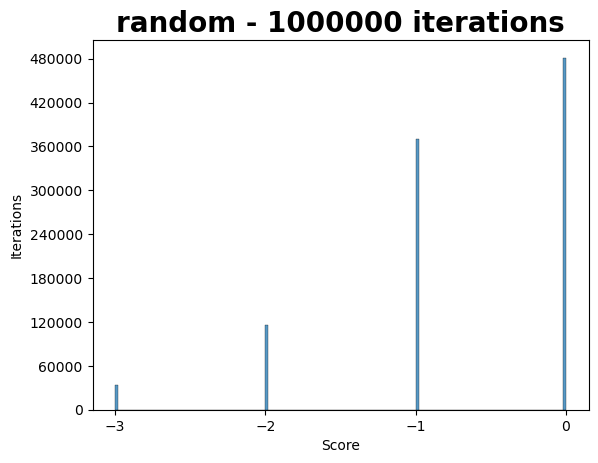
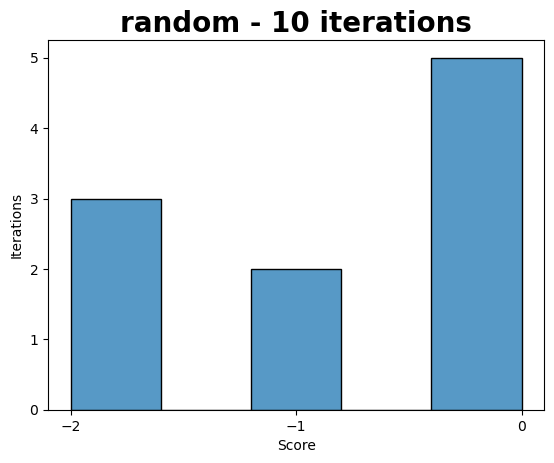
main change

diff --git a/main.py b/main.py
@@ -1,3 +1,4 @@
+#Import
 from code.classes import grid
 from code.algorithms import randomise, sa, depth_first, breadth_first, greedy
 from code.visualizations import visualize
@@ -6,7 +7,6 @@ from matplotlib.ticker import MaxNLocator
 from sys import argv
 import seaborn as sns
 import time
-
 
 def run(protein_file, iterations=100, algorithm="random", rules=False, show_vis=False, save=False):
     # The score of each folding of a protein
@@ -100,4 +100,4 @@ if __name__ == "__main__":
     algorithm = argv[2]
 
     # Run experiment for specified algorithm
-    run(protein_file, iterations=1, algorithm=algorithm)
+    run(protein_file, iterations=10, algorithm=algorithm, show_vis=True)
